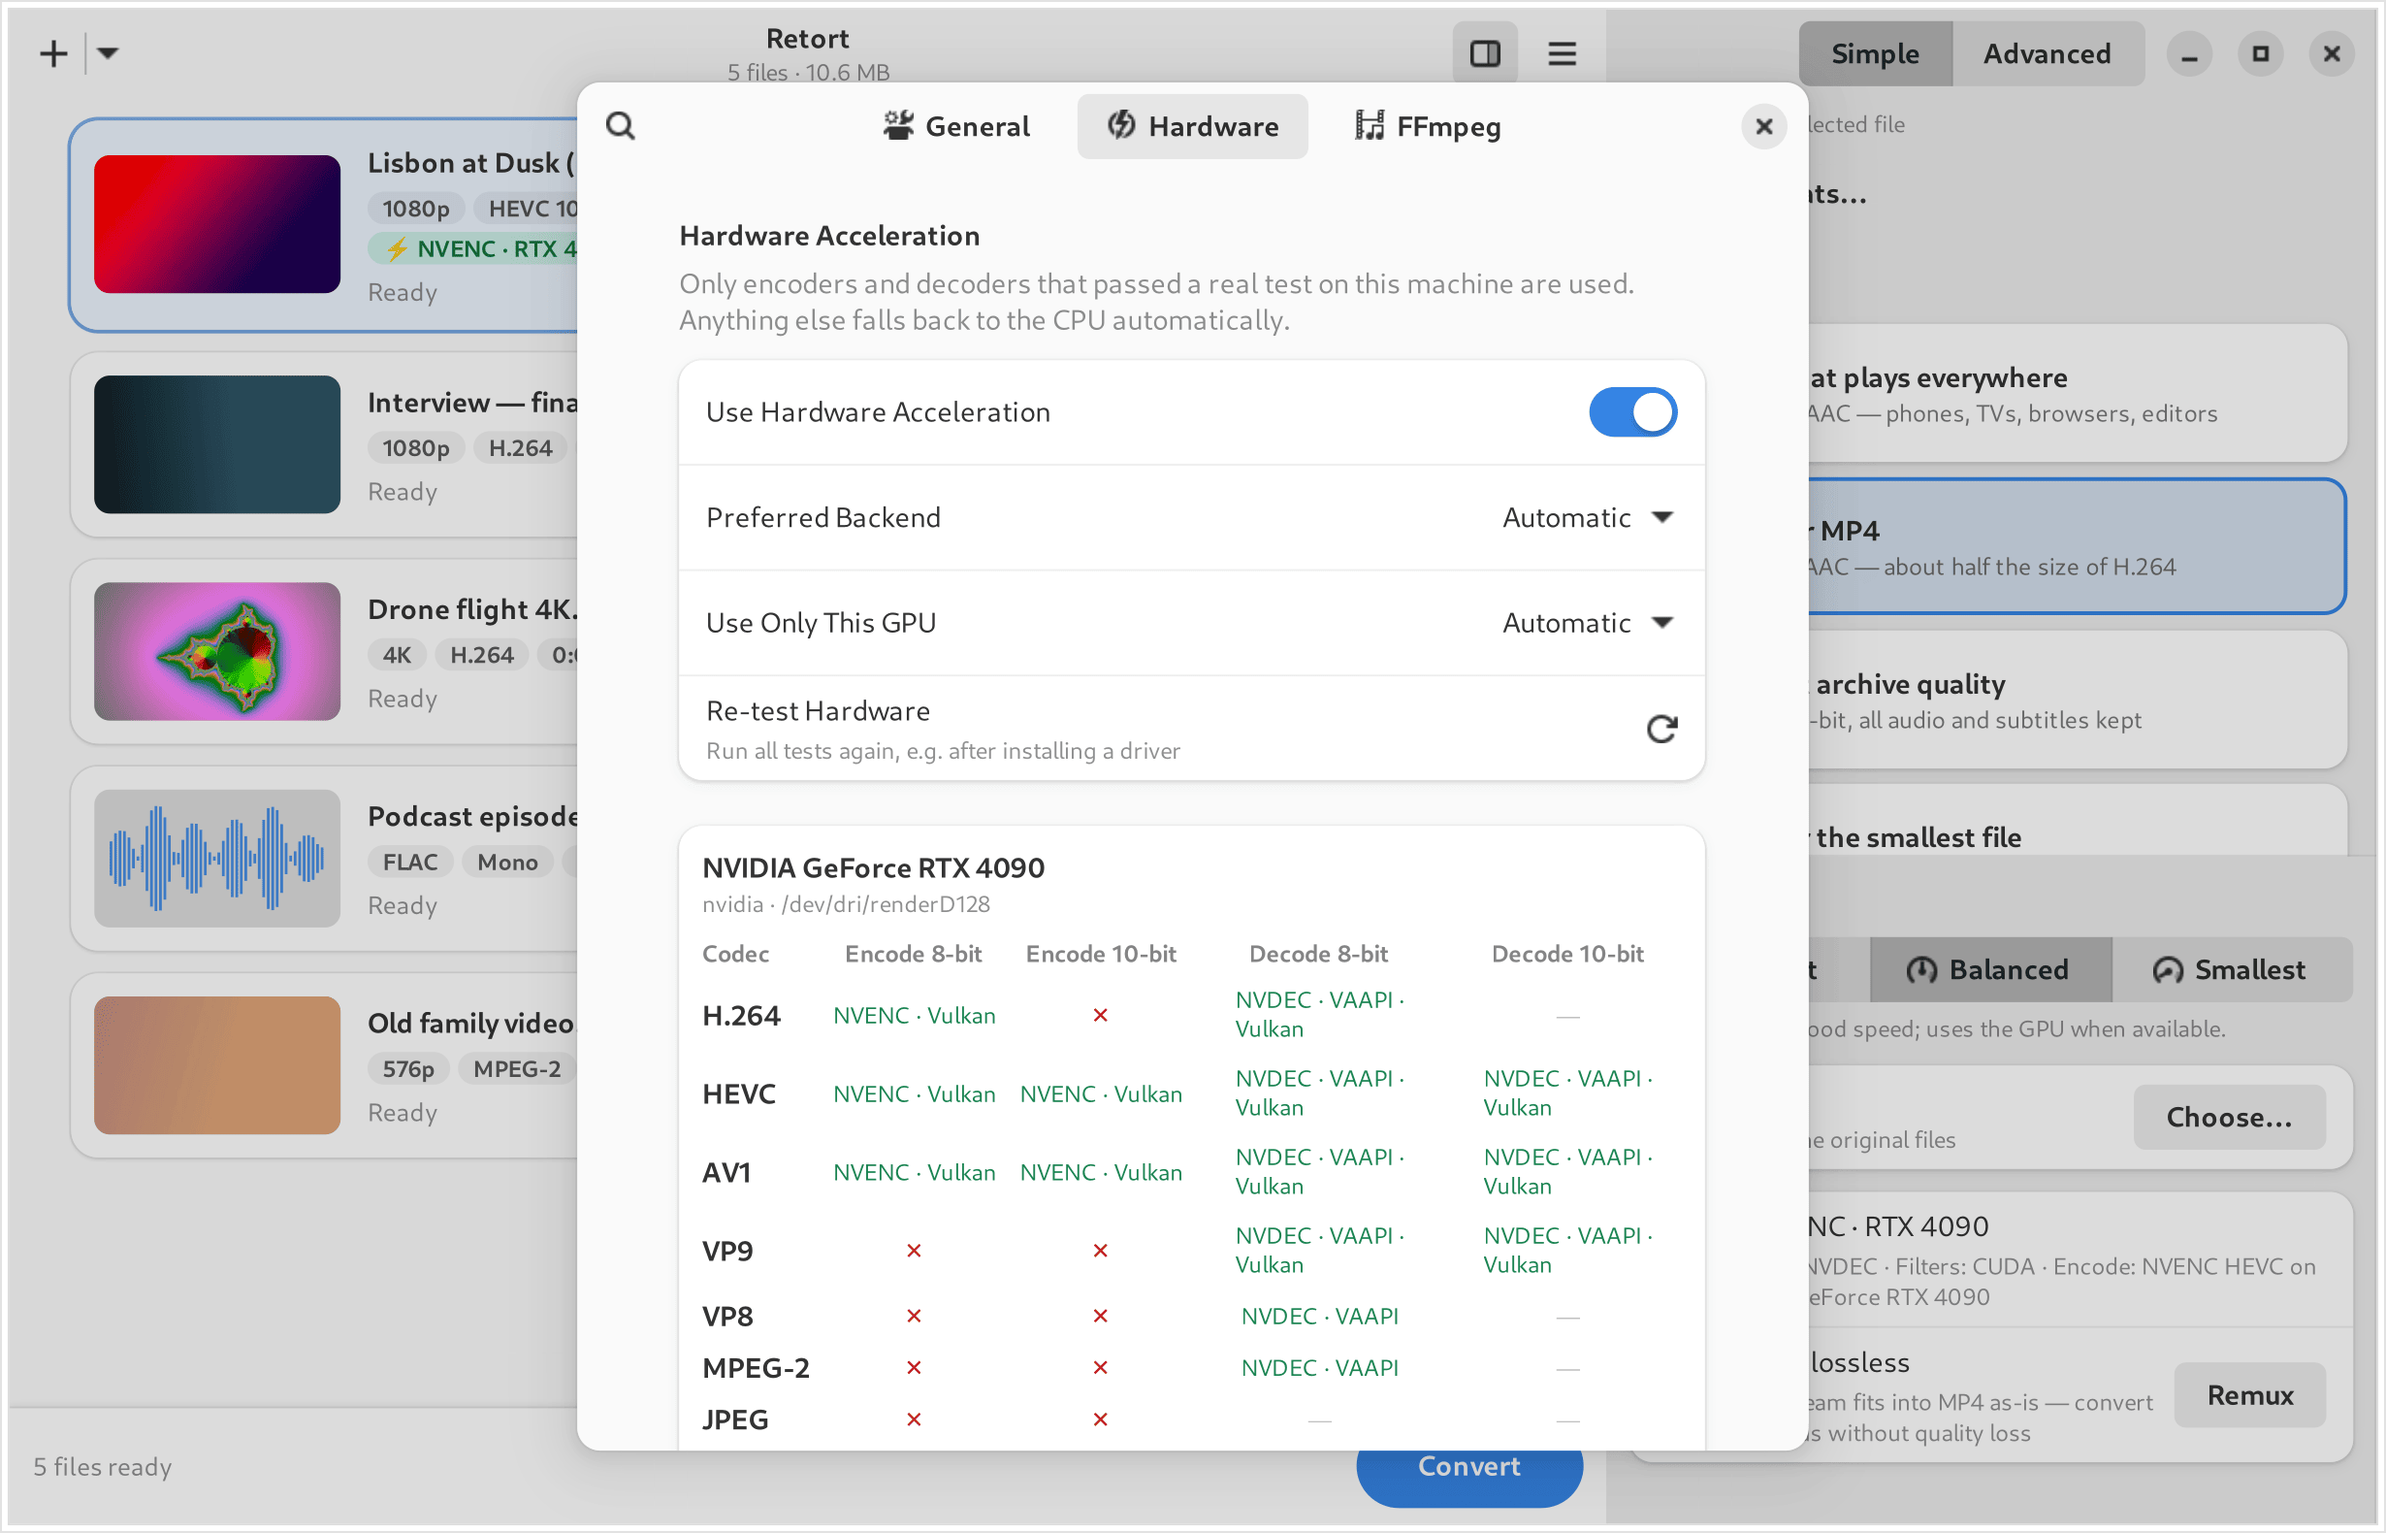
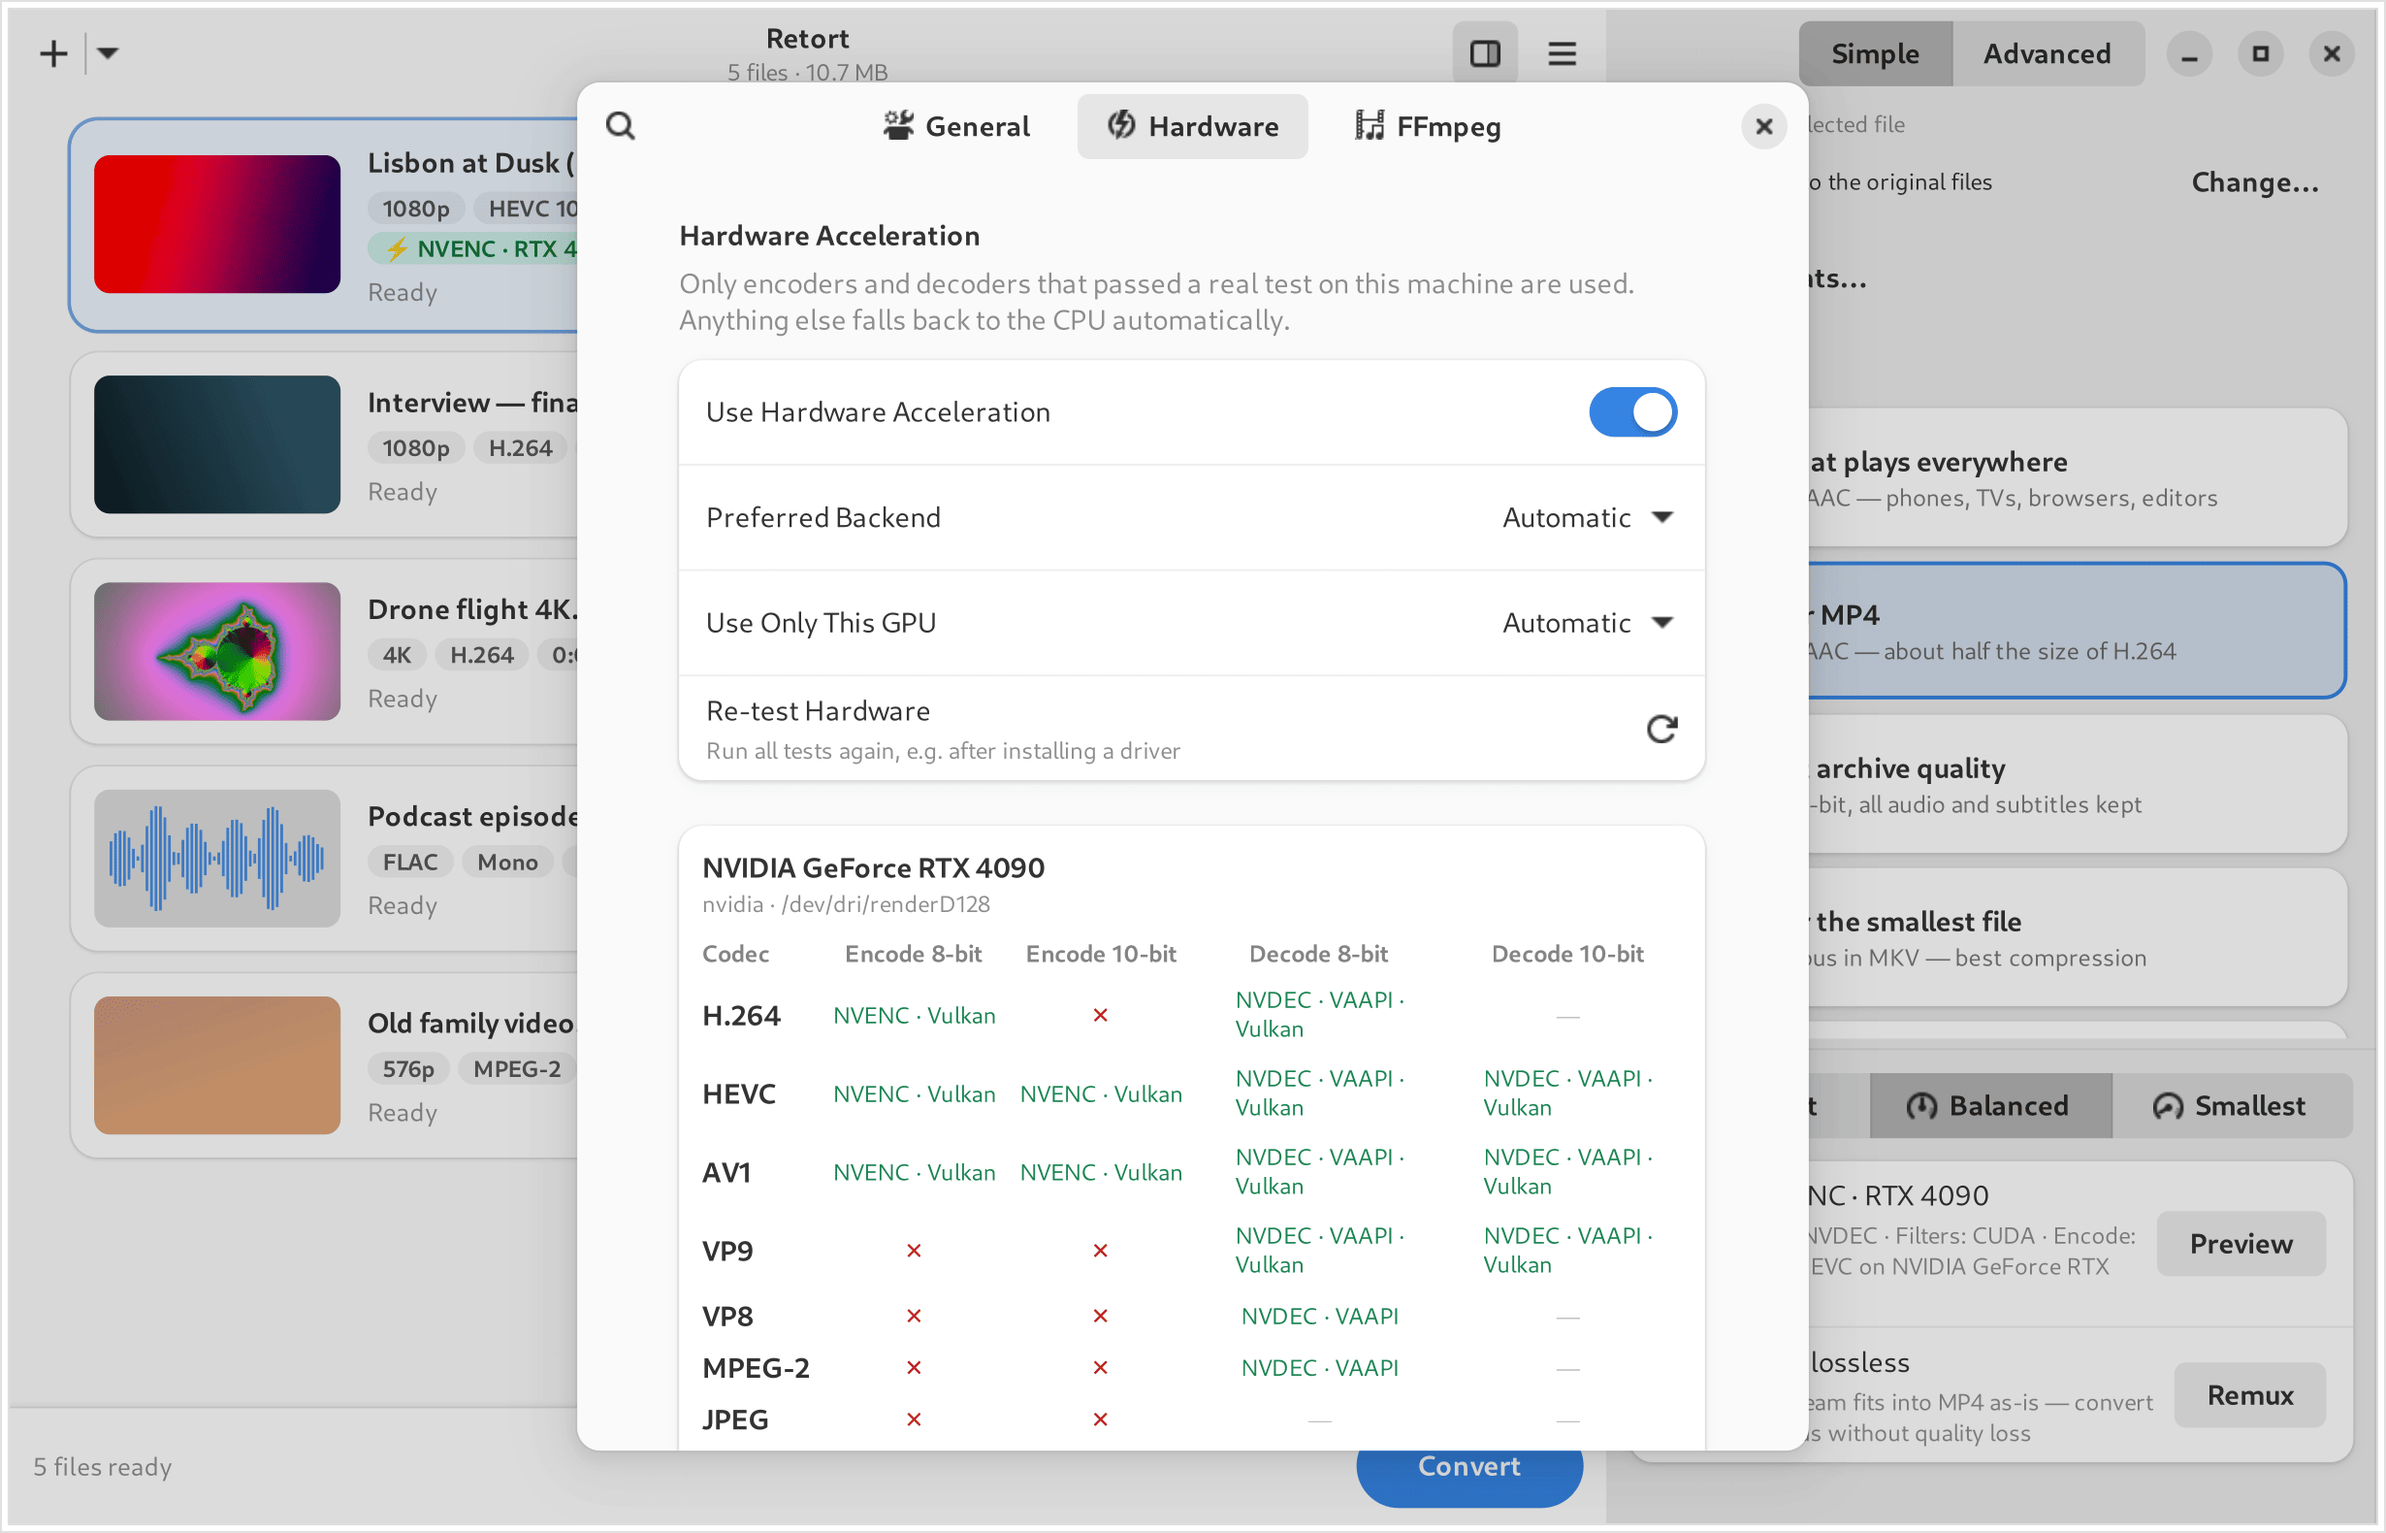
docs: M3 done — progress, architecture, screenshots, test list
Claude-Session: https://claude.ai/code/session_01TC8GAdKFoJsR7F3Xb7onm8

diff --git a/docs/PROGRESS.md b/docs/PROGRESS.md
@@ -9,8 +9,8 @@ Read this first in a new session. Requirements: `docs/SPEC.md`. Code map:
 |---|---|
 | M0 Bootstrap (spec, docs, name, scaffold) | done |
 | M1 Core engine + CLI + collect-hw-report.sh | done |
-| M2 GUI | done (Advanced panel is a placeholder until M3) |
-| M3 Advanced mode, planner, HDR, preview, target size | not started |
+| M2 GUI | done |
+| M3 Advanced mode, planner, HDR, preview, target size | done |
 | M4 Packaging + release CI | not started |
 | M5 Docs + polish | not started |
 
@@ -55,12 +55,15 @@ Read this first in a new session. Requirements: `docs/SPEC.md`. Code map:
 - [x] i18n: gettext domain, `po/POTFILES.in`, core strings marked with `n_()`
 
 ### M3 — Advanced
-- [ ] Advanced video/audio/subtitle/other settings UI
-- [ ] Planner: full-GPU pipelines, hybrid, fallback chain with runtime retry
-- [ ] HDR preservation + tonemapping (libplacebo / tonemap_vaapi / zscale)
-- [ ] Preview sample (10 s) + size/time estimate
-- [ ] Target size (2-pass software)
-- [ ] Concurrency per engine + NVENC session-limit requeue
+- [x] Advanced video/audio/subtitle/other settings UI (container switch keeps compatible choices; codec lists from the container + this FFmpeg; encoders = verified hardware per device + software; pinning)
+- [x] Default-track flags (`-disposition`), track selection by language, burn-in stream choice
+- [x] Extra input/output args: quote-aware splitting (no shell), conflict warnings
+- [x] Planner: full-GPU pipelines, hybrid, fallback chain with runtime retry (from M1, now reachable from the UI)
+- [x] HDR preservation + tonemapping (libplacebo / tonemap_vaapi / zscale) with Auto / Keep / Convert choice
+- [x] Preview sample (10 s from the middle of the trimmed range) + size/time estimate — GUI and `retort-cli convert --preview`
+- [x] Target size (2-pass software; estimate capped at the limit)
+- [x] Concurrency per engine + NVENC session-limit requeue
+- [x] GUI e2e drives Advanced widgets (rotate, trim, mono) and verifies the output with ffprobe
 
 ### M4 — Packaging
 - [ ] Flatpak (GNOME 51, bundled FFmpeg 9.0.x) + lint
@@ -141,6 +144,10 @@ App ID: `io.github.oreo1298.Retort` (owner from `git remote`). Defined in `brand
 | D22 | Simple sidebar pins Speed / Save To / plan below a scrolling preset list | With 19 presets these were below the fold | Single scroller (options invisible), collapsing preset categories |
 | D23 | Translations are merged into desktop/metainfo templates first, branding substituted afterwards (`build-aux/subst.py`) | Msgids keep `@APP_NAME@` placeholders, so a rename doesn't invalidate translations, and translated strings still match after substitution | configure_file before merge (substituted text never matches the catalogue) |
 | D24 | Core marks catalogue strings with a no-op `n_()`; the app translates at display time | Core stays free of gettext; xgettext (C parser, gettext < 0.24 has no Rust) extracts with `--keyword=n_` | gettext dependency in core |
+| D26 | Advanced edits turn the scope's preset into `format:<container>` | Simple mode then shows "custom MP4" instead of pretending a preset is still selected | Keeping the preset id (misleading), a separate "modified" flag |
+| D27 | Codec lists for a container are computed on a worker and cached per (container, kind) | Uncurated containers need a test mux the first time (seconds) | Computing in `sync` (froze the UI) |
+| D28 | Preview samples run at the full job's planned bitrate (target size → VBR at the planned kb/s) and the size estimate is capped at the limit | A 10-s target-size sample would otherwise get the whole budget; short samples over-represent container overhead (2.10 MB estimate vs 1.97 MB real for a 2 MB limit) | Re-planning the sample as its own target-size job |
+| D29 | One shared sidebar footer (speed, plan + Preview, remux suggestion in Simple only); destination is a one-line strip under the scope | Advanced needs the vertical space; both modes show the same plan and preview | Separate footers per mode |
 | D25 | The copyable command shows the final output name; the log shows the argv that ran (temp name) | Copy-pasting the command must produce the file the user expects; the log stays exact | Showing the temp-file command (confusing when copied) |
 
 ## Findings worth knowing (from real FFmpeg / distro checks)
@@ -161,6 +168,17 @@ App ID: `io.github.oreo1298.Retort` (owner from `git remote`). Defined in `brand
 - None blocking. Real hardware reports (below) will replace the synthetic profiles.
 
 ## Hardware test list
+
+### After M3 (Advanced mode, preview)
+
+On each machine, with a real HDR10 file, a multi-audio MKV (e.g. a film with two languages + subtitles) and a phone video:
+
+1. Advanced → Encoder: the list shows ⚡ entries only for encoders that passed the probe, one per GPU (Dell/Proxmox: Intel and NVIDIA separately). Pin one, convert, check the badge and `nvidia-smi`/`intel_gpu_top`. Pin an encoder that can't do 10-bit with a 10-bit source and check the error offers "Retry with Software".
+2. HDR file: HDR → "Keep" with HEVC/AV1 (MKV/MP4) keeps HDR10 (`retort-cli analyze` the output); "Convert to SDR" looks right (no washed-out colours) — note which tonemapper the plan used (libplacebo / tonemap_vaapi / CPU).
+3. Multi-audio MKV: Default Track → second language; play the result in mpv/VLC and check which track starts. Subtitles → Burn In a chosen track.
+4. Preview on a long file: estimate vs the real size after converting; with "Fit under a size limit" the real file must be under the limit.
+5. Container change (e.g. MKV → WebM): codec choices that fit are kept, others switch to defaults.
+6. Desktop (RTX 4090): AV1 NVENC 10-bit pinned + Preview; HEVC NVENC with Rate Control → Constant Bitrate.
 
 ### After M2 (GUI)
 

diff --git a/docs/ARCHITECTURE.md b/docs/ARCHITECTURE.md
@@ -201,7 +201,23 @@ send `q`.
 
 `Engine` bundles `Ffmpeg`, `Caps`, the format catalog, `Compat` and the
 `Inventory` (all cheap to clone) and offers `analyze`, `plan`, `output_path`,
-`request` and `probe_hardware`. The CLI and the GUI only talk to this.
+`request` and `probe_hardware`, plus the Advanced-mode helpers
+`codec_options` (container ∩ this FFmpeg), `encoder_options` (verified
+hardware per device, then software), `settings_for_format` and `retarget`
+(switch container, keep what still fits). The CLI and the GUI only talk to this.
+
+### 2.11a Preview (`preview`)
+
+`sample_settings` trims the job to 10 s from the middle of the output range
+(target size → the planned bitrate as VBR); `estimate` scales the sample's
+size and encode time to the whole output, capped at a target-size limit.
+Used by the GUI's Preview button and `retort-cli convert --preview`.
+
+### 2.11b Translations (`i18n`)
+
+Core has no gettext dependency: user-visible catalogue literals are wrapped
+in the no-op `n_()` so xgettext extracts them; the app translates at display
+time (`i18n::tr`).
 
 ### 2.12 Doctor (`doctor`, `distro`)
 
@@ -215,7 +231,7 @@ as the System Check page and `retort-cli diagnose [--json]`.
 Thin layer over `retort-core` (clap). No GTK dependency, so it runs on headless
 servers. Subcommands: `diagnose [--json]`, `probe-hw [--json] [--force]`,
 `list-formats [--all] [--json]`, `analyze <file> [--json]`,
-`convert <in>… --preset <id> [-o <out>] [--dry-run] [overrides]`,
+`convert <in>… --preset <id> [-o <out>] [--dry-run | --preview] [overrides]`,
 `presets`.
 
 ## 4. The GUI (`retort`)
@@ -226,9 +242,18 @@ build dependencies minimal). Newer libadwaita widgets (e.g. `AdwSpinner` 1.6,
 features that Meson enables after checking the installed libadwaita version;
 fallbacks use 1.5 widgets.
 
-* `AdwApplicationWindow` → `AdwToastOverlay` → `AdwNavigationSplitView`
-  (content: queue / empty state; sidebar: settings for the selection) with an
-  `AdwBreakpoint` collapsing to a single pane below ~720 sp.
+* `AdwApplicationWindow` → `AdwToastOverlay` → `AdwOverlaySplitView`
+  (content: queue / empty state; sidebar: settings for the selection) with
+  `AdwBreakpoint`s: the sidebar becomes an overlay below 760 sp, cards turn
+  compact below 520 sp.
+* Modules: `window` (shell, queue, analysis), `card` (queue card), `sidebar`
+  (scope, Simple presets, shared footer), `advanced` (every setting),
+  `picker` (format grid), `runner` (batch, limits, notifications), `preview`,
+  `details`, `prefs` (incl. hardware matrix), `syscheck`, `wrapbox`
+  (`WrapBox`/`FixedBin` layout widgets), `demo` (screenshot + e2e harness).
+* Edits go through `sidebar::apply_to_scope` (selected files, else all files
+  and the defaults for new files); `sync_from_state`/`advanced::sync`
+  reflect the scope back into the widgets with `ui.syncing` set.
 * Engine work (probing, analysis, jobs) runs on worker threads; results come
   back to the main loop via `async-channel` + `glib::spawn_future_local`.
 * Preferences are GSettings (`@APP_ID@.gschema.xml`).
@@ -237,7 +262,10 @@ fallbacks use 1.5 widgets.
   `gtk::FileDialog` / `gtk::FileLauncher` (portals).
 * A headless screenshot harness (`RETORT_SCREENSHOT_DIR`) drives the UI
   through every major state and renders the window with GSK to PNG
-  (`scripts/screenshots.sh`, runs under Xvfb).
+  (`scripts/screenshots.sh`, runs under Xvfb). `RETORT_E2E` instead converts
+  the files given on the command line through the real UI (and with
+  `RETORT_E2E_ADVANCED` sets Advanced widgets first); `scripts/e2e-gui.sh`
+  checks the outputs with ffprobe.
 
 ## 5. Testing strategy
 
